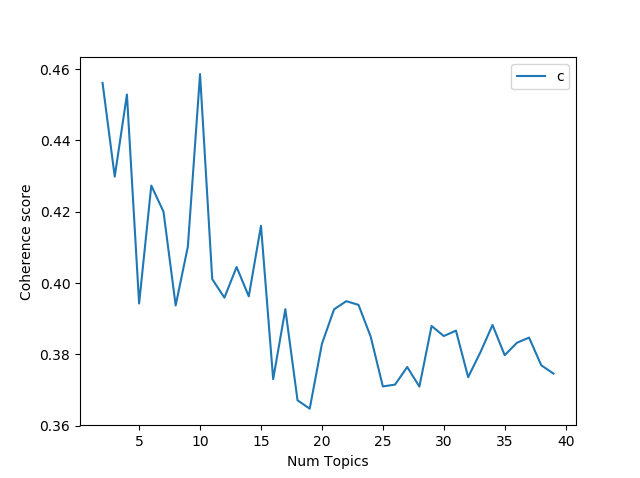
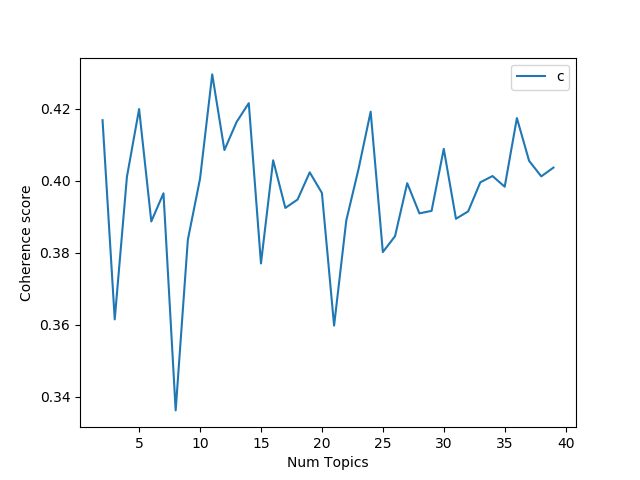
fix k

diff --git a/lda.py b/lda.py
@@ -193,7 +193,7 @@ def lda(data_lemmatized):
 	print('\nCoherence Score: ', coherence_lda)
 
 
-	model_list, coherence_values = compute_coherence_values(lda_model, dictionary=id2word, corpus=corpus, texts=data_lemmatized, start=2, limit=15, step=1)
+	model_list, coherence_values = compute_coherence_values(lda_model, dictionary=id2word, corpus=corpus, texts=data_lemmatized, start=2, limit=20, step=1)
 
 	# mallet_path = '/Users/student/Downloads/mallet-2.0.8/bin/mallet'
 	# ldamallet = gensim.models.wrappers.LdaMallet(mallet_path, corpus=corpus, num_topics=8, id2word=id2word)
@@ -202,7 +202,7 @@ def lda(data_lemmatized):
 	# print('\nCoherence Score: ', coherence_ldamallet)
 
 	# Show graph
-	limit=15; start=2; step=1;
+	limit=20; start=2; step=1;
 	x = range(start, limit, step)
 	plt.figure()
 	plt.plot(x, coherence_values)
@@ -218,15 +218,15 @@ def lda(data_lemmatized):
 			temp = round(cv, 4)
 		else:
 			# count > 0
-			if (round(cv, 4) < temp):
-				ideal_num_topics = m - 1
+			if (round(cv, 4) > temp):
+				ideal_num_topics = m
 				print(ideal_num_topics)
-				print(temp)
-				break
-			else:
 				temp = round(cv, 4)
+				print(temp)
 		count = count + 1
 
+	print(ideal_num_topics)
+	ideal_num_topics = 12
 	half_of_topics = int(ideal_num_topics / 2)
 	# if (ideal_num_topics % 2 == 0):
 	# 	half_of_topics = int(ideal_num_topics / 2)
@@ -235,7 +235,7 @@ def lda(data_lemmatized):
 	# 	half_of_topics = int((ideal_num_topics) / 2)
 
 	# feed the lda model with ideal number of topics 
-	lda_model = gensim.models.ldamodel.LdaModel(corpus=corpus,
+	real_lda_model = gensim.models.ldamodel.LdaModel(corpus=corpus,
                                            id2word=id2word,
                                            num_topics=ideal_num_topics, 
                                            random_state=100,
@@ -245,12 +245,12 @@ def lda(data_lemmatized):
                                            alpha='auto',
                                            per_word_topics=True)
 
-	topics = lda_model.show_topics(formatted=False)
+	topics = real_lda_model.show_topics(num_topics = ideal_num_topics, formatted=False)
 	data_flat = [w for w_list in texts for w in w_list]
 	counter = Counter(data_flat)
-	doc_lda = lda_model[corpus]
+	doc_lda = real_lda_model[corpus]
 
-	coherence_model_lda = CoherenceModel(model=lda_model, texts=data_lemmatized, dictionary=id2word, coherence='c_v')
+	coherence_model_lda = CoherenceModel(model=real_lda_model, texts=data_lemmatized, dictionary=id2word, coherence='c_v')
 	coherence_lda = coherence_model_lda.get_coherence()
 
 	print('\nActual Coherence Score: ', coherence_lda)
@@ -270,7 +270,7 @@ def lda(data_lemmatized):
 	prob_of_word = 0
 	testDict = defaultdict(float)
 	for w in data_flat:
-		list_of_probs = lda_model.get_term_topics(w)
+		list_of_probs = real_lda_model.get_term_topics(w)
 		for topic_num, prob_value in list_of_probs:
 			testDict[topic_num] += prob_value
 		topic_counter = topic_counter + 1
@@ -338,12 +338,13 @@ def lda(data_lemmatized):
 
 
 	df = pd.DataFrame(out, columns=['word', 'topic_id', 'importance', 'word_count'])
+	print(df)
 
 	# Plot Word Count and Weights of Topic Keywords
 	if (ideal_num_topics % 2 == 0):
 		fig, axes = plt.subplots(half_of_topics, 2, figsize=(10,10), sharey=True, dpi=90, squeeze=True)
 	else:
-		fig, axes = plt.subplots(ideal_num_topics, 1, figsize=(10,10), sharey=True, dpi=90, squeeze=True)
+		fig, axes = plt.subplots(ideal_num_topics, 1, sharey=True, dpi=90, squeeze=True)
 
 	cols = [color for name, color in mcolors.TABLEAU_COLORS.items()]
 	counter = 0
@@ -351,8 +352,9 @@ def lda(data_lemmatized):
 	df_wordcount_list = df["word_count"].tolist()
 	df_wordweight_list = df["importance"].tolist()
 	start = 0
+	print(df_word_list)
 	if (ideal_num_topics % 2 == 0):
-		for i, ax in enumerate(axes):
+		for i, ax in enumerate(axes.flatten()):
 			sliced_word_list = df_word_list[start:start + 10]
 			sliced_wordcount_list = df_wordcount_list[start:start + 10]
 			sliced_wordweight_list = df_wordweight_list[start:start + 10]
@@ -380,6 +382,8 @@ def lda(data_lemmatized):
 			sliced_wordweight_list = df_wordweight_list[start:start + 10]
 
 			x1 = np.arange(10)
+			print(i)
+			print(sliced_word_list)
 			axes[i].bar(x=x1, height=sliced_wordcount_list, color=cols[i], width=0.5, alpha=0.3, label='Word Count')
 			axes[i].set_ylabel('Word Count', color=cols[i])
 			ax_twin = axes[i].twinx()
